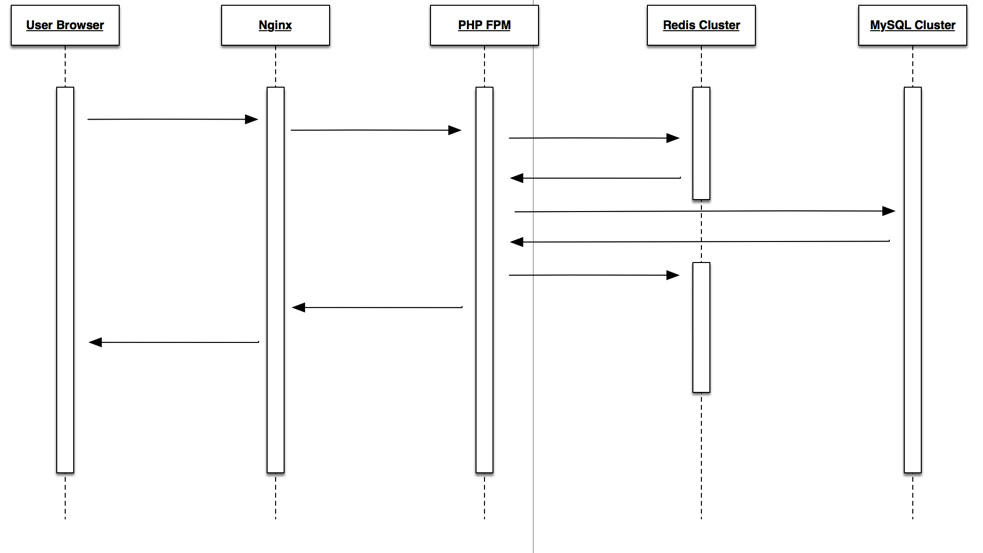
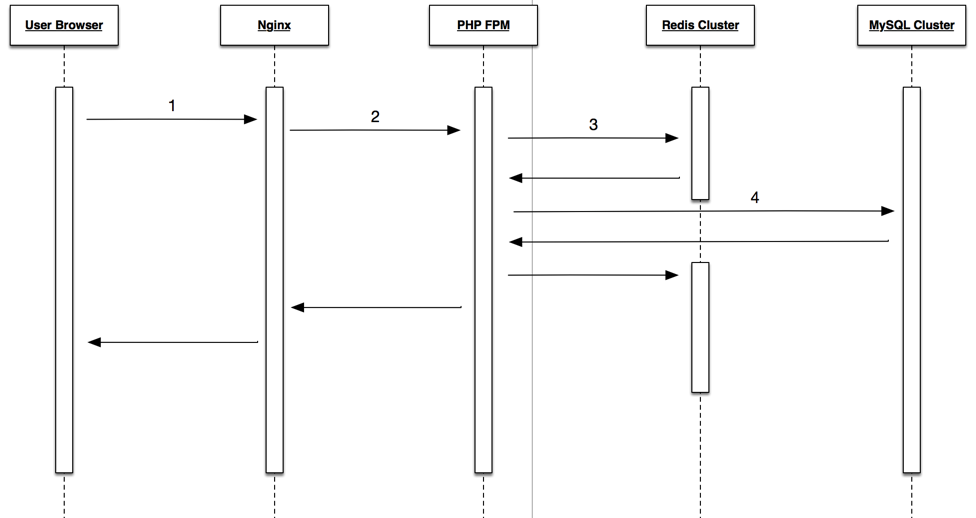
MyBlogs/从一个问答开始谈秒杀业务场景.md

diff --git a/MyBlogs/从一个问答开始谈秒杀业务场景.md b/MyBlogs/从一个问答开始谈秒杀业务场景.md
@@ -29,3 +29,34 @@
 对于一个 request 请求来说，基本上是这样的一个流程：
 
 > ![request](./images/image-1.png)
+
+最终的落脚点在 DB，也就是说，最后的最后，如果没有采取截流措施，那么最后倒霉的就是 DB。 所以，我们先来说下截流的办法。
+
+我们可以看到，图中总共有四个标记的地址。也就是说，仅在图中提及的就有四个可以优化的地方。
+
+1. 用户浏览器的截流。
+    + JS 防止用户重复点击，这个方法很简单，就是通常的秒杀页面，都会有一个秒杀的按钮，按下按钮，参与秒杀。所以，只需要让用户在一定时间内只能点击一次，将请求数降低即可。
+    + 静态抢购结束页面，当用户访问页面的时候，本身就有一定几率跳转到一个只会提示失败的页面。就像小米之前做的那样。不过，就如上文说的，这个方法，风险很高。
+    + ...
+
+2. Nginx 的截流。
+    + 限流，对于 Nginx 来说，本身就有限流模块，即`ngx_http_limit_conn_module指令`, 通过设置这个参数，就可以确保流入后端的流量是可控的。同时前端对被拦截的请求做秒杀失败的反馈。
+    + ...
+
+3. PHP-FPM 和 Redis && PHP-FPM 和 MySQL
+    > 这就是一个好玩的地方了。这就是最重要的就是业务逻辑代码了。这边我主要说一下我之前实现的一个逻辑还有一个参与过的业务逻辑。
+    >
+    > + 对于到达这一步的用户，我们已经默认他已经达到了参与秒杀的条件，所以按照到达的顺序，我们在 Redis 中做一个计数。因为 Redis 是单线程，所以必然的，他有一个原子操作的天然特性。所以，通过设定数字，我们可以保证最后到达数据库的请求和最终的商品数量保持一致，不会产生超卖的问题。不过这个方法有一个弊端，就是，最终参与的人数必然是按照时间顺序排列的。并不能有效的控制秒杀的时间。比如，业务希望，这个秒杀活动能够持续5分钟。
+    > + 针对上一个需求，就是有一个优化版的业务逻辑。就是当用户进入到这一步时，我们按照时间顺序分成不同的队列，比如可以按照分钟数来区分。每个队列对应一个可售商品的数量。然后接下来的操作同一。这样的好处就是可以有效的控制秒杀活动的时间。不会造成，一瞬间商品的可售数量变为0。
+
+4. 额外的手段。
+    + DNS 截流
+    + ...
+
+上述，只是轻描淡写的说了可以通过 Redis 来做一个计数，用来控制最终操作 DB 的请求数量。但是，并没有对 Redis 的 HA 做一个阐述。因为，对于单点的 Redis，在大流量的冲击下，依旧会有崩溃的风险。所以，一般都会使用 Redis Cluster 的解决方案，通常而言就是一致性 Hash 的方案。但是，这个方案就会带来一个雪崩的风险。为了避免雪崩，其实也没什么太好的办法。除了及时的监控，报警和及时的危机处理。同时，业务代码中也务必要有 Redis 无响应的处理代码，即，按秒杀失败处理。
+
+至于 DB 的优化，这个就需要针对特定的表结构，和业务详说。不过 OneSQL 倒是提供了很多好的思路。
+
+不过，上述的一些措施，只能针对常见的秒杀业务，如果是确定的超高流量的秒杀，就需要和现行业务进行分离，使用热点库，热点缓存的方式，将该秒杀和业务分离开来。防止秒杀的崩溃造成系统的不稳定。
+
+最后的最后，这只是在短时间内想到的一些。毕竟只是一个菜鸟的抛砖引玉行为。 : )
